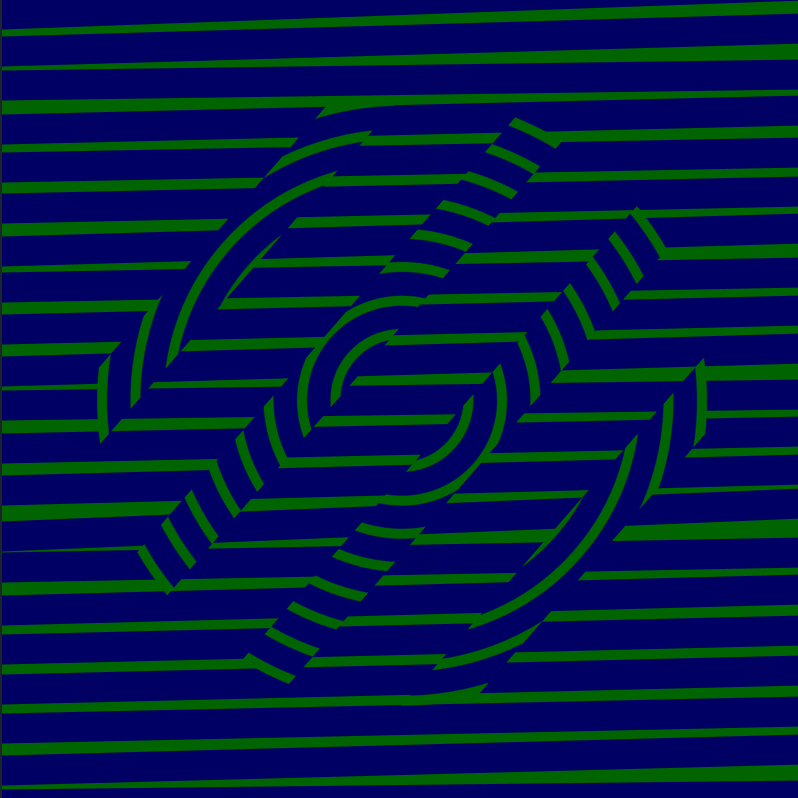
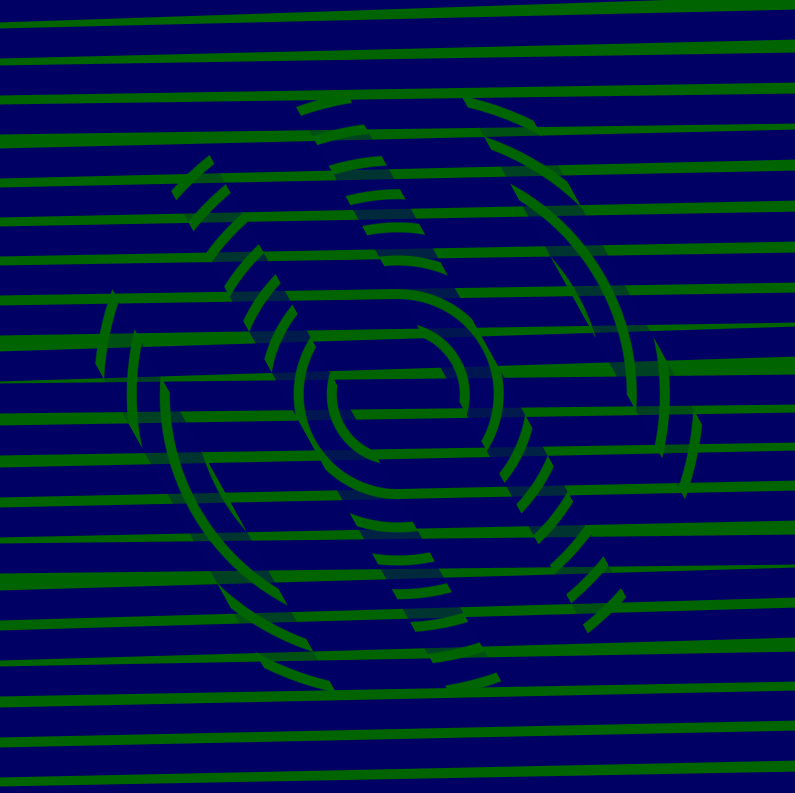
translucent demo!

diff --git a/2023/sketch_2023_06_24/sketch_2023_06_24.py b/2023/sketch_2023_06_24/sketch_2023_06_24.py
@@ -19,7 +19,7 @@ def make_circle():
     c.clear()  # transparent background NOW THIS IS NECESSARY!
     c.stroke_weight(10)
     c.stroke(0, 100, 0)
-    c.fill(0, 0, 100)
+    c.fill(0, 0, 100, 50) # check ou this translucent fill!
     for shrink in range(10):
         c.circle(c.width / 2, c.height / 2, c.width * (0.75 - shrink / 12))
     c.end_draw()
